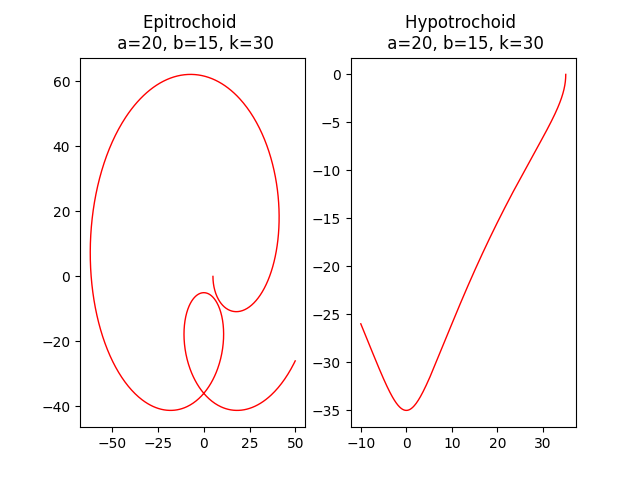
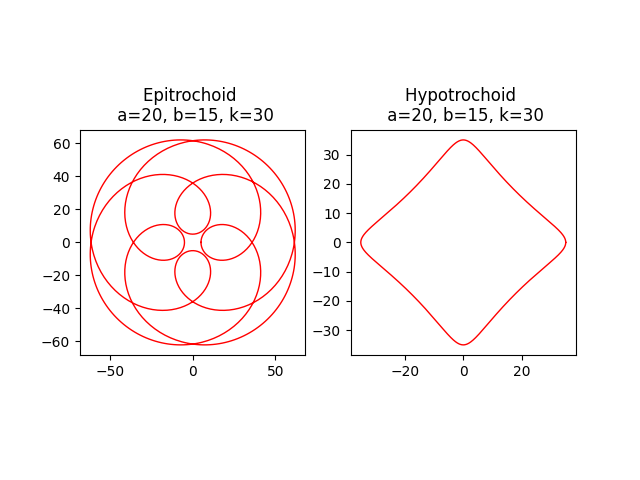
Refactor epitrochoid and hypotrochoid functions

diff --git a/Assignment3/Assignment3.py b/Assignment3/Assignment3.py
@@ -8,48 +8,84 @@
 """
 
 import matplotlib.pyplot as plt
-import numpy as np
+from numpy import cos, sin, pi, linspace, lcm
 
-def epitrochoid(ax: plt.Axes, a: int, b: int, k: int, color: str, thickness: int) -> None:
-    t = np.linspace(0, 2 * np.pi, 1000)
-    x = (a + b) * np.cos(t) - k * np.cos((a + b) / b * t)
-    y = (a + b) * np.sin(t) - k * np.sin((a + b) / b * t)
+
+def epitrochoid(ax: plt.Axes, a: int, b: int, k: int, color: str, thickness: int, rev: int = 1) -> None:
+    
+    t = linspace(0, rev, 1000)
+
+    x = ((a + b) * cos(2 * pi * t)) - (k * cos((2 * pi) * (((a + b) * t) / b)))
+    y = ((a + b) * sin(2 * pi * t)) - (k * sin((2 * pi) * (((a + b) * t) / b)))
+    
     ax.plot(x, y, color=color, linewidth=thickness)
     ax.set_title(f"Epitrochoid \n a={a}, b={b}, k={k}")
+    ax.set_aspect('equal')
 
-def hypotrochoid(ax: plt.Axes, a: int, b: int, k: int, color: str, thickness: int) -> None:
-    t = np.linspace(0, 2 * np.pi, 1000)
-    x = (a - b) * np.cos(t) + k * np.cos((a - b) / b * t)
-    y = (a - b) * np.sin(t) - k * np.sin((a - b) / b * t)
+def hypotrochoid(ax: plt.Axes, a: int, b: int, k: int, color: str, thickness: int, rev: int = 1) -> None:
+
+    t = linspace(0, rev, 1000)
+
+    x = ((a - b) * cos(2 * pi * t)) + (k * cos((2 * pi) * (((a - b) * t) / b)))
+    y = ((a - b) * sin(2 * pi * t)) - (k * sin((2 * pi) * (((a - b) * t) / b)))
+
     ax.plot(x, y, color=color, linewidth=thickness)
     ax.set_title(f"Hypotrochoid \n a={a}, b={b}, k={k}")
+    ax.set_aspect('equal')
 
 def main():
-    # (a) 𝑎 = 20, 𝑏 = 15, 𝑘 = 30 with red color and 1-pixel thick
-    fig, (epitrochoid_ax, hypotrochoid_ax) = plt.subplots(1, 2)
-    epitrochoid(epitrochoid_ax, 20, 15, 30, 'red', 1)
-    hypotrochoid(hypotrochoid_ax, 20, 15, 30, 'red', 1)
-    fig.savefig(f"Assignment3/Assignment3_a.png")
 
-    # (b) 𝑎 = 30, 𝑏 = 45, 𝑘 = 20 with green color and 3-pixel thick
-    fig, (epitrochoid_ax, hypotrochoid_ax) = plt.subplots(1, 2)
-    epitrochoid(epitrochoid_ax, 30, 45, 20, 'green', 3)
-    hypotrochoid(hypotrochoid_ax, 30, 45, 20, 'green', 3)
-    fig.savefig(f"Assignment3/Assignment3_b.png")
+    problem = [
+        {
+            "name": "a",
+            "a": 20,
+            "b": 15,
+            "k": 30,
+            "color": "red",
+            "thickness": 1,
+            "rev": 3
+        },
+        {
+            "name": "b",
+            "a": 30,
+            "b": 45,
+            "k": 20,
+            "color": "green",
+            "thickness": 3,
+            "rev": 3
+        },
+        {
+            "name": "c",
+            "a": 50,
+            "b": 35,
+            "k": 15,
+            "color": "blue",
+            "thickness": 2,
+            "rev": 7
+        },
+        {
+            "name": "d",
+            "a": 15,
+            "b": 55,
+            "k": 35,
+            "color": "purple",
+            "thickness": 3,
+            "rev": 11
+        }
+    ]
 
-    # (c) 𝑎 = 50, 𝑏 = 35, 𝑘 = 15 with blue color and 2-pixel thick
-    fig, (epitrochoid_ax, hypotrochoid_ax) = plt.subplots(1, 2)
-    epitrochoid(epitrochoid_ax, 50, 35, 15, 'blue', 2)
-    hypotrochoid(hypotrochoid_ax, 50, 35, 15, 'blue', 2)
-    fig.savefig(f"Assignment3/Assignment3_c.png")
+    for p in problem:
+        a, b, k = p["a"], p["b"], p["k"]
+        color, thickness = p["color"], p["thickness"]
+        rev = p["rev"]
 
-    # (d) 𝑎 = 15, 𝑏 = 55, 𝑘 = 35 with purple color and 3-pixel thick
-    fig, (epitrochoid_ax, hypotrochoid_ax) = plt.subplots(1, 2)
-    epitrochoid(epitrochoid_ax, 15, 55, 35, 'purple', 3)
-    hypotrochoid(hypotrochoid_ax, 15, 55, 35, 'purple', 3)
-    fig.savefig(f"Assignment3/Assignment3_d.png")
+        fig, (epitrochoid_ax, hypotrochoid_ax) = plt.subplots(1, 2)
+        epitrochoid(epitrochoid_ax, a, b, k, color, thickness, rev)
+        hypotrochoid(hypotrochoid_ax, a, b, k, color, thickness, rev)
 
-    plt.show()
+        plt.savefig(f"Assignment3/Assignment3_{p['name']}.png")
+
+        plt.show()
 
 if __name__ == "__main__":
     main()
